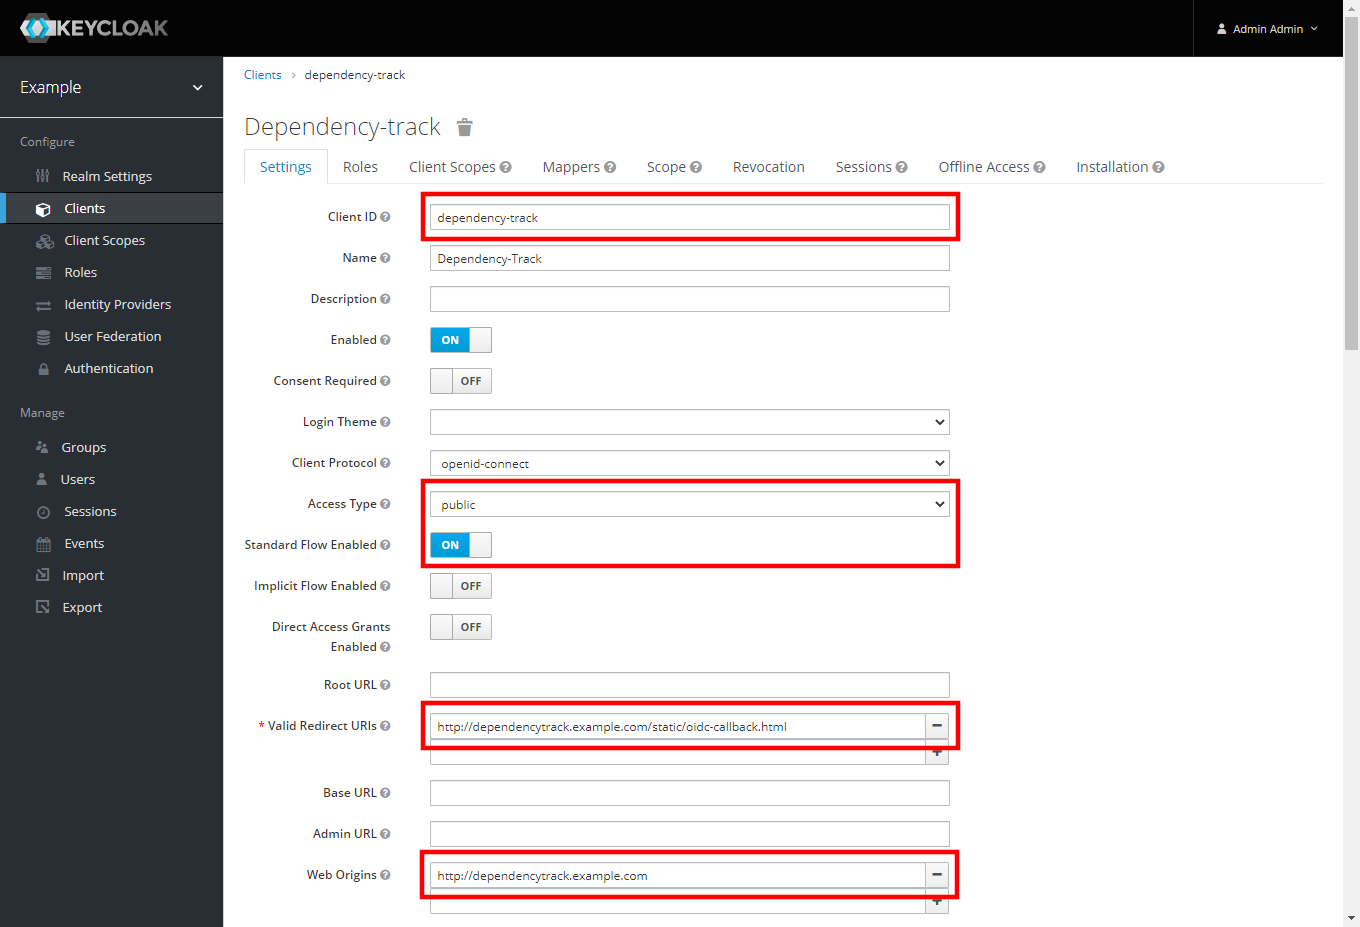
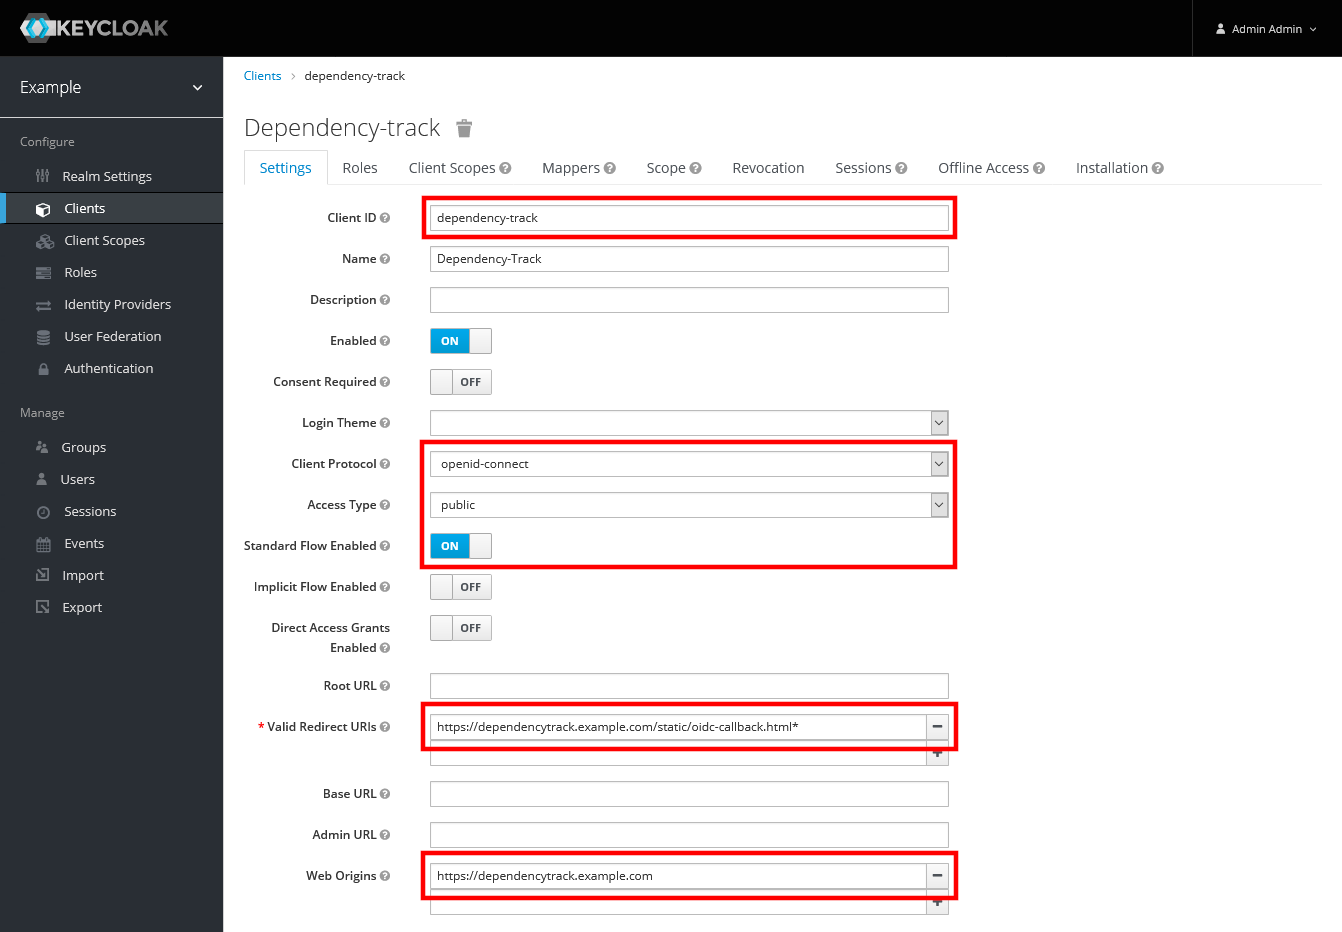
Update OIDC docs to reflect recent changes
Namely post-login redirects, which require a slight configuration change: https://github.com/DependencyTrack/frontend/pull/47

And removal of the email column from OidcUsers view: https://github.com/DependencyTrack/frontend/pull/63

Also changed example URLs from HTTP to HTTPS for obvious reasons.

diff --git a/docs/_docs/getting-started/openidconnect-configuration.md b/docs/_docs/getting-started/openidconnect-configuration.md
@@ -68,17 +68,19 @@ For a complete overview of available configuration options for both backend and 
 The following steps demonstrate how to setup OpenID Connect with Keycloak. Most settings should be applicable to other IdPs as well.
 
 > This guide assumes that: 
->   * the Dependency-Track frontend has been deployed to `http://dependencytrack.example.com`
+>   * the Dependency-Track frontend has been deployed to `https://dependencytrack.example.com`
 >   * a Keycloak instance is available at `https://auth.example.com`
 >   * the realm *example* has been created in Keycloak
 
 1. Configure the client as shown below:
 ![Keycloak: Configure client](/images/screenshots/oidc-keycloak-client-settings.png)
   * Client ID: `dependency-track`
+  * Client Protocol: `openid-connect`
   * Access Type: `public`
   * Standard Flow Enabled: `ON`
-  * Valid Redirect URIs: `http://dependencytrack.example.com/static/oidc-callback.html`
-  * Web Origins: `http://dependencytrack.example.com`
+  * Valid Redirect URIs: `https://dependencytrack.example.com/static/oidc-callback.html*`
+    * The trailing `*` is required when using the frontend v1.3.0 or newer, in order to support [post-login redirects](https://github.com/DependencyTrack/frontend/pull/47)
+  * Web Origins: `https://dependencytrack.example.com`
 
 2. To be able to synchronize team memberships, create a *protocol mapper* that includes group memberships as `groups` in
 the `/userinfo` endpoint:
